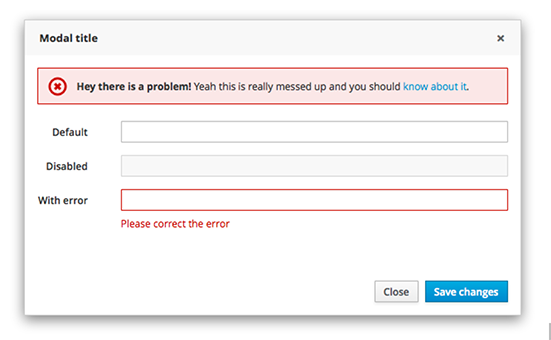
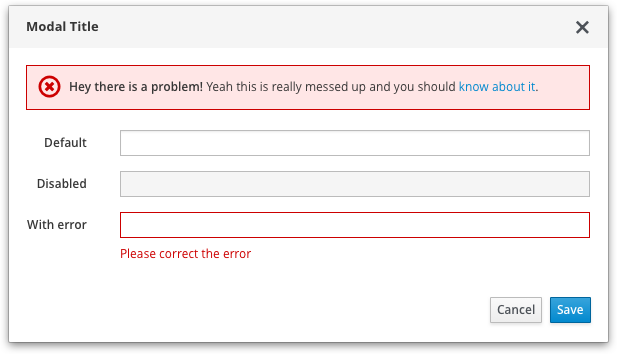
Updates for Validation and Disabling Submit Buttons
- Modified the guidelines of Errors and Validations
- Modified the mockup to keep consistency with guidance
- Add new rules to the guidelines of Disabling Submit Buttons

Changed region(s): [[0.0, 0.0, 1.0, 1.0], [0.1851, 0.7059, 0.4011, 0.7353]]

diff --git a/pattern-library/forms-and-controls/errors-and-validation/design/overview.md b/pattern-library/forms-and-controls/errors-and-validation/design/overview.md
@@ -1,36 +1,34 @@
 # Errors and Validation
 
-If a form field submission results in an error, it must be indicated to the user. Errors are always presented on individual form fields, they might also be indicated with an inline notification.
+If a form field submission results in an error, it must be indicated to the user. Errors are always presented on individual form fields, they might also be indicated with an inline notification. This depends on whether the validation happens on the client or the server.
+
+### Client-side validation
+When the user leaves a field, i.e. the field loses focus, a validation error message will be presented immediately on that field if an error exists.
+
+* Ensure validation is relevant to the field.
+  * Example: Invalid characters for text input fields
+* Depending on application constraints, dynamic (on-the-fly) dismissal of errors would be ideal as it provides a visual cue that the user has corrected the error.
+* For a wizard, disable the submit button until all required form inputs have been satisfied.
+
+### Server-side validation
+When the user submits the form, the entire page is reloaded with indications of validation errors for each field. It is recommended that an inline notification gets presented at the top of the main content area to assist the user in finding and correcting the specific field errors.
+
+* The notification message should describe the error(s) and offer guidance for resolution. It might also include a count of the number of error(s). A total count is useful for long forms where individual field errors might be outside of the user’s current view.
+* Once form errors are resolved and submitted, the inline (error) notification should be replaced with a confirmation message.
+
+See [Inline Notifications](http://www.patternfly.org/pattern-library/communication/inline-notifications/) for more information.
 
 ### How to perform validation
 * Text input fields with validation errors are indicated with a red border around the input box and a Field Error Message below the field describing the error.
-  * Field Error Messages should be specific and offer solutions. Example: The "@" character in "user@application" is not allowed. Try "user_at_application" instead.
-  * When the error message is presented, content below will automatically get pushed out of the way to accommodate it.
+  * Field Error Messages should be specific and offer solutions. Example: The “@” character in “user@application” is not allowed. Try “user_at_application” instead.
+  * When the error message is presented, content below will automatically get moved down to accommodate it.
 * An (optional) inline notification might be presented as well, depending on the use case. See “Server-side validation”.
 
 ![Error and Validation](img/error-and-validation.png)
 
 ### When to perform validation
-* When possible, it's best to perform inline validation as the widget loses focus so that the user is immediately informed of invalid information. The validation will disappear after user modify the content within the field. However, inline validation shouldn’t be overused as user may feel frustrated.
-* When a required field is not filled or a wrong format is input, we recommend showing a validation as the widget loses focus.
-* In some cases (e.g. setting the password), we may consider performing a real-time validation while user filling the field. See “Client-side validation”.
+For server-side validation, the error message always appears after user submitted and the entire page was reloaded. For client-side validation, there are several scenarios:
 
-### When to disable submit button
-* Generally, when a form is submitted, the submit button should be disabled to avoid duplicate submission. Also, progress indicators (spinner or progress bars) should be used if the time to process the form submit action would exceed users’ expectations. For more information about progress indicators, see: [spinner](https://www.patternfly.org/widgets/#spinner) and/or [progress](https://www.patternfly.org/widgets/#progress).
-* For wizard, disable submit button until all required form inputs have been satisfied.
-
-### Client-side validation
-When the user leaves a field, and the field loses focus, a validation error message will be presented dynamically on that field if an error exists. Note: Some use cases might require validation as the user types, where the syntax for each character is checked. For example: Checking IP address fields where the only valid characters are numbers and periods.
-
-* Ensure validation is relevant to the field.
-  * Example: Invalid characters for text input fields
-* Depending on application constraints, dynamic (on-the-fly) dismissal of errors would be ideal as it provides a visual cue that the user has corrected the error.
-
-### Server-side validation
-When the user submits the form, the entire page is reloaded with indications of validation errors for each field.
-It is recommended that an inline notification get presented, at the top of the main content area, to assist the user in finding and correcting the specific field errors.
-
-* The notification message should describe the error(s) and offer guidance for resolution. It might also include a count of the number of error(s). A total count is useful for long forms where individual field errors might be outside of the user’s current view.
-* Once form errors are resolved and submitted, the inline (error) notification should be replaced with a confirmation message.
-
-See [Inline Notifications](https://www.patternfly.org/widgets/#progress) for more information.
+* When possible, it's best to perform inline validation as the widget loses focus so that the user is immediately informed of invalid information. The validation will disappear after user modifies the content within the field. However, inline validation shouldn’t be overused as the user may feel frustrated.
+* When a required field is not filled or input data is in the incorrect format, we recommend showing a validation as the widget loses focus. If users are asked to provide unfamiliar data or a specific format is needed, we recommend provide syntax hints to preventing users from making mistakes. See [Syntax Hints](http://www.patternfly.org/pattern-library/forms-and-controls/help-on-forms/) for more information.
+* Some use cases might require validation as the user types, where the syntax for each character is checked. For example: Checking IP address fields where the only valid characters are numbers and periods.

diff --git a/pattern-library/forms-and-controls/buttons-on-forms/design/overview.md b/pattern-library/forms-and-controls/buttons-on-forms/design/overview.md
@@ -10,7 +10,7 @@
 
 
 
-Buttons are the primary means for invoking actions within forms.  They may be placed at the bottom of a form, as in the case of submit buttons or inline with other form content. 
+Buttons are the primary means for invoking actions within forms.  They may be placed at the bottom of a form, as in the case of submit buttons or inline with other form content.
 
 ### Submit Buttons
 Submit buttons are placed at the bottom of the page to optimize top to bottom flow.  There should always be two buttons, a primary action button that will commit changes made by the user and a Cancel button that will abort those changes.  By default, the primary action will be labeled Save unless there is use case specific naming that makes more sense.  The Cancel button should always discard any changes and return the user to their prior state before opening this form (i.e., close the modal window or navigation back to the parent page.)  See the [PatternFly Terminology and Wording Guidelines](http://www.patternfly.org/styles/terminology-and-wording/#_) for more guidance on button labeling.
@@ -34,9 +34,10 @@ Buttons may also be used for inline actions within a form.  In these cases, the 
 1. Inline action button placed to the right of the field that it affects.
 
 ### Enabling and Disabling Actions
-Submit buttons should be disabled when all conditions required for completing a form are not met.  This will reduce the need to return validation errors because the user neglected to complete the form.  When using disabled buttons, it should always be possible for the user to enable the button by inputing information onto the current page.  Do not use this technique for blocking functionality that is not available to the current user or requires changes outside of the current page.
+* For one-page experience, submit buttons should be disabled when all conditions required for completing a form are not met. This will reduce the need to return validation errors because the user neglected to complete the form. However, in the cases of long scrolling-page forms, we recommend against do like that as the submit button is not always visible. When using disabled buttons, it should always be possible for the user to enable the button by inputting information onto the current page. For more guidance on handling form validation see [Errors and Validation](http://www.patternfly.org/pattern-library/forms-and-controls/errors-and-validation/).
+* When a form is submitted, the submit button should be disabled to avoid duplicate submission. Also, feedback message and progress indicators (spinner or progress bars) should be used if the time to process the form submit action would exceed users’ expectations. For more information about progress indicators, see: [spinner](http://www.patternfly.org/pattern-library/widgets/#spinner) and/or [progress](http://www.patternfly.org/pattern-library/widgets/#progress-bars).
 
-For more guidance on handling form validation see [Errors and Validation](http://www.patternfly.org/pattern-library/forms-and-controls/errors-and-validation/).
+![Disable Submit Button](img/disable-submit-button.png)
 
 ### Styling Commonly Used Buttons
 
@@ -48,6 +49,6 @@ Use "Close" to exit the current view.  Close should not be used when the view is
 
   **Cancel Button:**
   "Cancel" should be styled as a secondary button unless you have a limited use case where the Cancel action is a highly destructive action. In that case, use the destructive button.
-  
+
   **Save Button:**
-  "Save" should be styled as the primary button on all editable forms. 
+  "Save" should be styled as the primary button on all editable forms.
